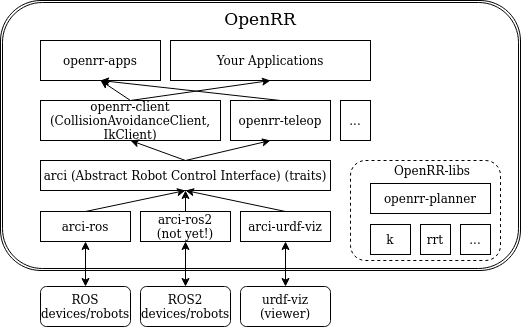
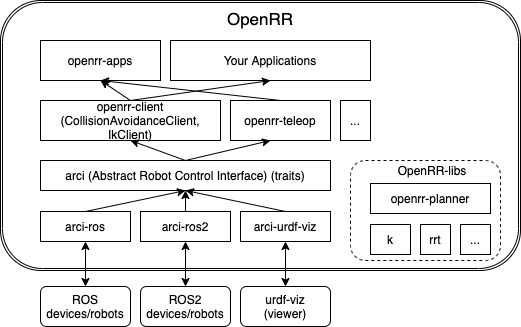
[README.md] Add ROS2 support
* Update architecture image
* Update about ROS2

diff --git a/README.md b/README.md
@@ -8,11 +8,14 @@ OpenRR (pronounced like "opener") is Open Rust Robotics platform.
 
 ## Supported Platforms
 
-|OS|Core|GUI|ROS|
-|--|----|---|---|
-|Linux (Ubuntu)|✔|✔|✔|
-|MacOS|✔|✔|✔|
-|Windows|✔|✔| |
+|OS|Core|GUI|ROS|ROS2|
+|--|----|---|---|---|
+|Linux (Ubuntu)|✔|✔|✔|✔|
+|MacOS         |✔|✔|✔|  |
+|Windows       |✔|✔|  |  |
+
+* You can use ROS *without ROS installation* on Linux/MacOS.
+* ROS2 Support is experimental. Only navigation is supported and it is highly under development. See [arci-ros2](https://github.com/openrr/openrr/tree/main/arci-ros2) for details.
 
 ## Dependencies
 
